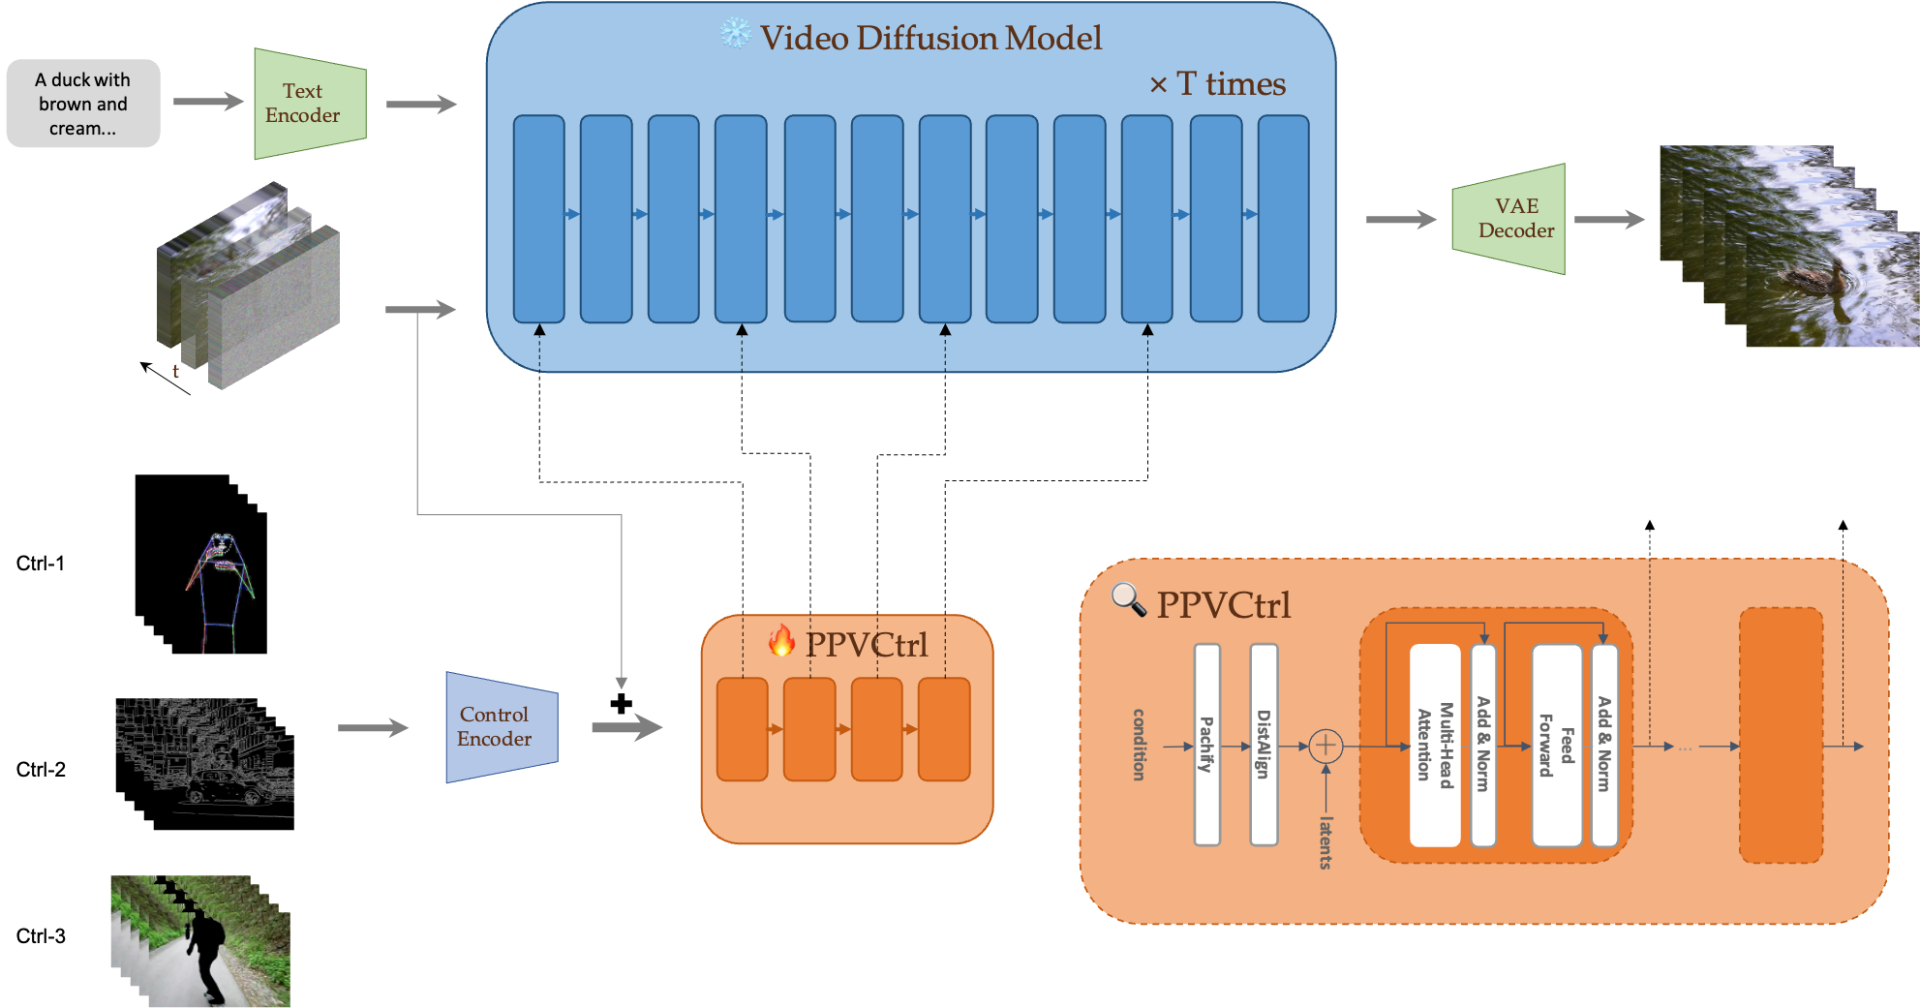
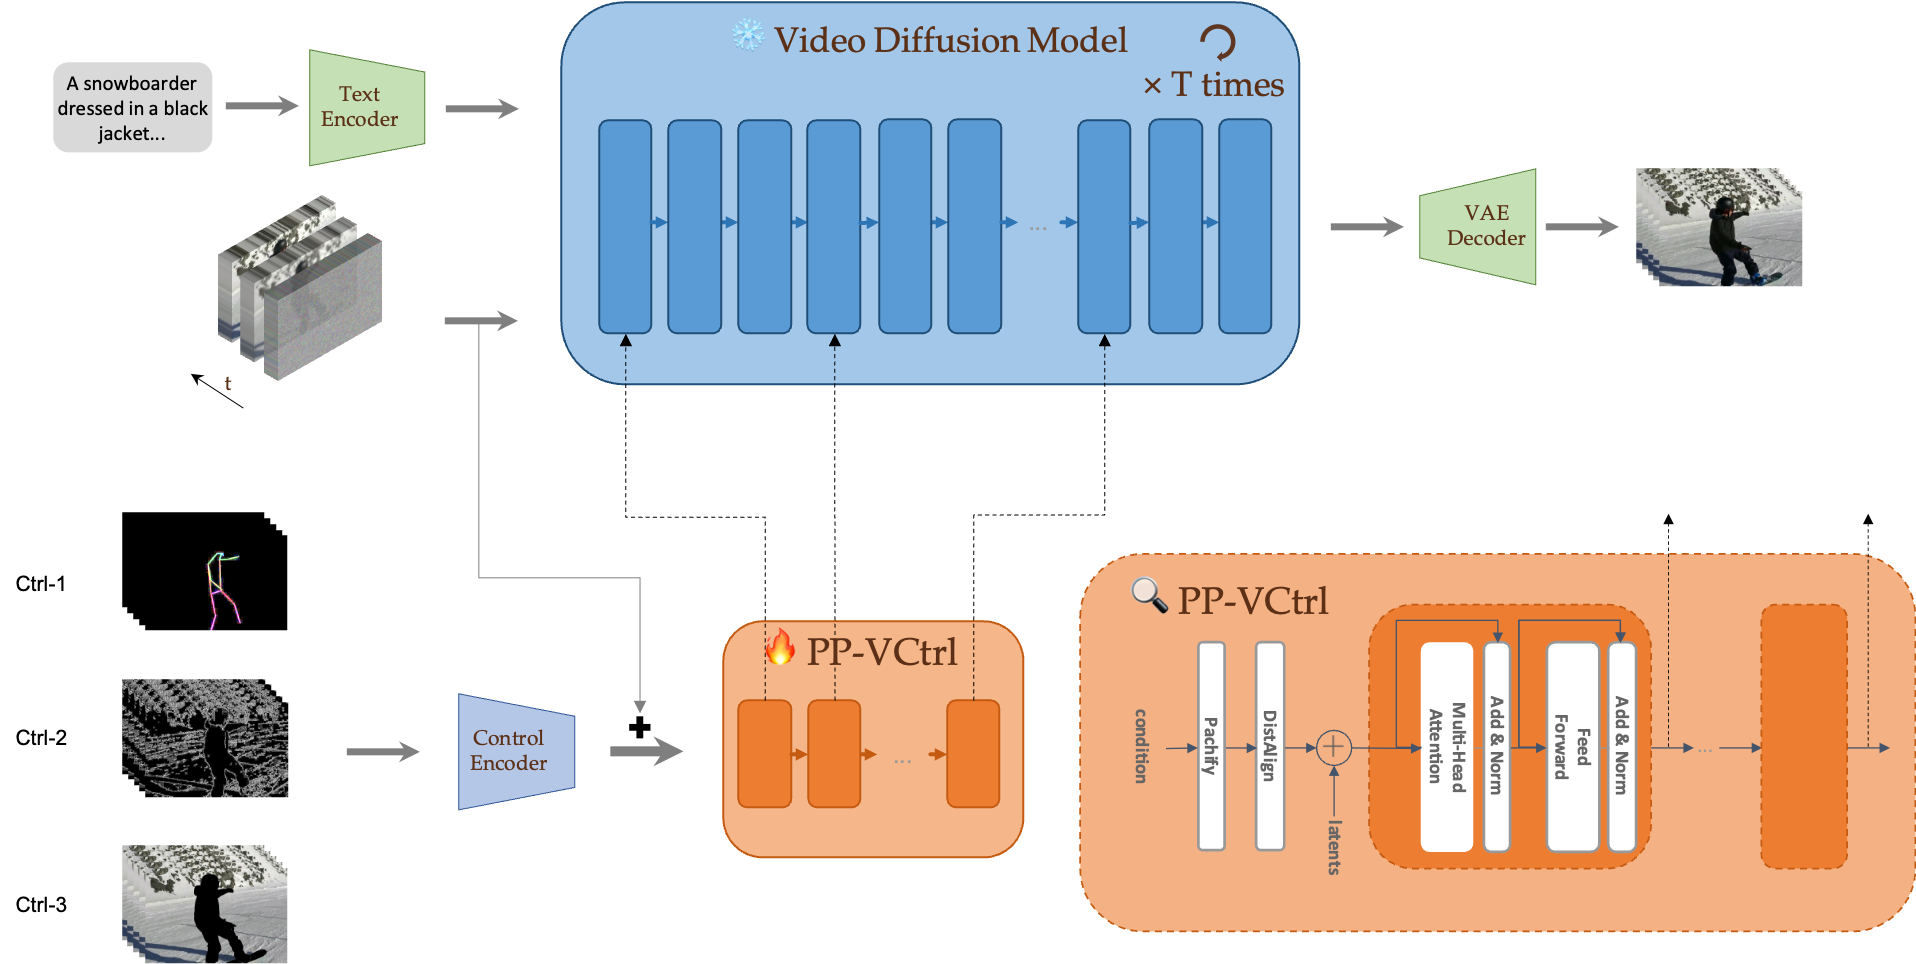
update_readme

diff --git a/ppdiffusers/examples/vctrl/README.md b/ppdiffusers/examples/vctrl/README.md
@@ -1,17 +1,22 @@
-# PP-Vctrl: Controlable Video Generation Models
-这个仓库是基于PP-Vctrl的官方实现。
+# PP-VCtrl: Controlable Video Generation Models
+这个仓库是基于PP-VCtrl的官方实现。
 
-PP-Vctrl 是一个基于**PaddlePaddle**的开源视频生成模型，旨在通过控制视频内容来实现高质量的视频编辑和生成。
+PP-VCtrl 是一个基于**PaddlePaddle**的开源视频生成模型，旨在通过控制视频内容来实现高质量的视频编辑和生成。
 
-PP-VCtrl 在 Canny2Video、Pose2Video 和 Mask2Video 三个任务的模型的控制精度和视频质量评估中，表现出色，媲美甚至超越现有的针对特定任务设计的方法。
+<img src="assets/models/model.png" style="width:100%">
 
-**[PP-Vctrl: Controlable Video Generation Models](https://arxiv.org/absadada/)** 
-</br>
+
+- **1**. **PP-VCtrl** 通过稀疏残差连接实现特征的高效控制传播，在保证计算效率的同时实现精确控制。
+- **2**. **PP-VCtrl** 通过统一的控制信号编码流程将多种条件输入转换为标准化表征，并利用任务特定掩码提升适应性。
+- **3**. **PP-VCtrl** 统一而灵活的设计使PPVCtrl成为了一个真正通用的视频生成控制解决方案，并可通过pipeline的方式应用在各类视频生成场景，如人物动画、场景转换、视频编辑等。
+
+<!-- **[PP-Vctrl: Controlable Video Generation Models](https://arxiv.org/absadada/)** 
+</br> -->
 <!-- [![arXiv](https://img.shields.io/badge/arXiv-2307-b31b1b.svg)](https://arxiv.org/abs/) -->
-[![Project Page](https://img.shields.io/badge/Project-Website-green)](https://https://github.com/PaddlePaddle/PaddleMIX.github.io/)
+<!-- [![Project Page](https://img.shields.io/badge/Project-Website-green)](https://https://github.com/PaddlePaddle/PaddleMIX.github.io/) -->
 <!-- [![Hugging Face Spaces](https://img.shields.io/badge/%F0%9F%A4%97%20Hugging%20Face-Spaces-yellow)](https://huggingface.co/spaces/) -->
 
-***注意:*** 
+<!-- ***注意:***  -->
 ## 📰 新闻
  `[2025-01-08]`:🔥模型推理代码，推理脚本，模型权重，已经发布。训练代码敬请期待！
 ## 🚩 **TODO/最新进展**
@@ -20,7 +25,7 @@ PP-VCtrl 在 Canny2Video、Pose2Video 和 Mask2Video 三个任务的模型的控
 
 
 ## 📷 快速展示
-### 1. 通过Canny边缘控制的PP-Vctrl视频生成：
+### 1. 通过Canny边缘控制的PP-VCtrl视频生成：
 <table class="center">
     <thead>
         <tr>
@@ -51,7 +56,7 @@ PP-VCtrl 在 Canny2Video、Pose2Video 和 Mask2Video 三个任务的模型的控
 </table>
 
 
-### 2. 通过蒙版控制的PP-Vctrl视频生成：
+### 2. 通过蒙版控制的PP-VCtrl视频生成：
 <table class="center">
     <thead>
         <tr>
@@ -81,31 +86,25 @@ PP-VCtrl 在 Canny2Video、Pose2Video 和 Mask2Video 三个任务的模型的控
     </tbody>
 </table>
 
-### 3. 通过DW-Pose控制的PP-Vctrl视频生成：
+### 3. 通过DW-Pose控制的PP-VCtrl视频生成：
 <table class="center">
     <thead>
         <tr>
-            <th>Reference1</th> <!-- 新增的列标题，在最左边 -->
-            <th>Reference2</th>
+            <th>Reference</th> <!-- 新增的列标题，在最左边 -->
             <th>Pose Videos</th>
-            <th>Ours 1</th>
-            <th>Ours 2</th>
+            <th>Ours</th>
         </tr>
     </thead>
     <tbody>
         <tr>
             <td><img src="assets/figures/pose_case1_reference1.jpg" alt="Reference 1" width="160"></td> 
-            <td><img src="assets/figures/pose_case1_reference1.jpg" alt="Reference 2" width="160"></td>
-            <td><img src="assets/figures/pose_case1_control_image.gif" alt="Pose Videos" width="160"></td>
+           <td><img src="assets/figures/pose_case1_control_image.gif" alt="Pose Videos" width="160"></td>
             <td><img src="assets/figures/pose_case1_ours_1.gif" alt="Ours 1" width="160"></td>
-            <td><img src="assets/figures/pose_case1_ours_1.gif" alt="Ours 2" width="160"></td>
         </tr>
         <tr>
-            <td><img src="assets/figures/pose_case1_reference1.jpg" alt="Reference 1" width="160"></td> 
-            <td><img src="assets/figures/pose_case1_reference1.jpg" alt="Reference 2" width="160"></td>
-            <td><img src="assets/figures/pose_case1_control_image.gif" alt="Pose Videos" width="160"></td>
-            <td><img src="assets/figures/pose_case1_ours_1.gif" alt="Ours 1" width="160"></td>
-            <td><img src="assets/figures/pose_case1_ours_1.gif" alt="Ours 2" width="160"></td>
+            <td><img src="assets/figures/pose_case2_reference2.jpg" alt="Reference 1" width="160"></td> 
+            <td><img src="assets/figures/pose_case2_control_image.gif" alt="Pose Videos" width="160"></td>
+            <td><img src="assets/figures/pose_case2_ours_2.gif" alt="Ours 1" width="160"></td>
         </tr>
         <!-- 可以继续添加更多行 -->
     </tbody>
@@ -122,9 +121,9 @@ PP-Vctrl模型是建立在 PaddlePaddle 和 ppdiffusers 上的。以下是使用
 ```bash
 
 # 创建python环境
-conda create -n PP-Vctrl python=3.10 -y
+conda create -n PP-VCtrl python=3.10 -y
 source $(conda info --base)/etc/profile.d/conda.sh
-conda activate PP-Vctrl
+conda activate PP-VCtrl
 ```
 ```bash
 # 安装3.0.0版本的paddlepaddle-gpu，当前我们选择了cuda11.8的版本，可以查看 https://www.paddlepaddle.org.cn/ 寻找自己适合的版本
@@ -148,7 +147,7 @@ pip install -r requirements.txt
 ### 2. 下载预训练权重
 请按照如下方式下载权重：
 
-#### 2.1 下载PP-Vctrl-canny模型权重
+#### 2.1 下载PP-VCtrl-canny模型权重
 ```bash
 #创建vctrl-canny模型权重目录
 mkdir -p weights/canny
@@ -160,7 +159,7 @@ wget -P weights/canny https://bj.bcebos.com/v1/dataset/PaddleMIX/vctrl/paddle_we
 wget -P weights/canny https://bj.bcebos.com/v1/dataset/PaddleMIX/vctrl/paddle_weights/vctrl_canny_5b_t2v.pdparams
 
 ```
-#### 2.2 下载PP-Vctrl-msak模型权重
+#### 2.2 下载PP-VCtrl-msak模型权重
 ```bash
 #创建vctrl-mask模型权重目录
 mkdir -p weights/mask
@@ -173,7 +172,7 @@ wget -P weights/mask https://bj.bcebos.com/v1/dataset/PaddleMIX/vctrl/paddle_wei
 
 
 ```
-#### 2.3 下载PP-Vctrl-pose模型权重
+#### 2.3 下载PP-VCtrl-pose模型权重
 ```bash
 #创建vctrl-poses模型权重目录
 mkdir -p weights/poses
@@ -213,7 +212,7 @@ sh scripts/infer_cogvideox_i2v_vctrl.sh
 sh scripts/infer_cogvideox_t2v_vctrl.sh
 ```
 
-#### 3.2 通过遮罩控制生成视频
+#### 3.2 通过蒙版控制生成视频
 ```bash
 ##t2v
 sh infer_cogvideox_t2v_mask_vctrl.sh
@@ -221,7 +220,7 @@ sh infer_cogvideox_t2v_mask_vctrl.sh
 ##i2v
 sh infer_cogvideox_i2v_mask_vctrl.sh
 ```
-***Note:*** 3.1 and 3.2 contain text-to-video and image-to-video.
+***注意:*** 边缘和蒙版控制模型可以同时支持t2v和i2v模型。 
 #### 3.3 通过人物姿态图控制生成视频
 ```bash
 ##i2v
@@ -230,9 +229,9 @@ sh scripts/infer_cogvideox_i2v_pose_vctrl.sh
 ***注意:*** 人物姿态控制模型只适用于i2v模型。 
 #### 3.3 Gradio 应用
 我们还创建了一个 Gradio 应用，供您与我们的模型进行交互。
+<!-- ```
 ```
-```
-<img src="asserts/figs/gradio.jpg" style="width:70%">
+<img src="asserts/figs/gradio.jpg" style="width:70%"> -->
 
 
 ## 📚 技术细节
@@ -245,17 +244,20 @@ sh scripts/infer_cogvideox_i2v_pose_vctrl.sh
 
 尽管ControlNet在可控图像生成领域取得了突破性进展，但视频生成领域仍缺乏类似的通用控制方案。当前可控视频生成的研究主要集中在开发特定任务的解决方案，如人物动画生成、视频修复和运动控制等。这些方法通常为每个具体任务设计专门的模块，导致技术体系碎片化，缺乏统一的理论框架。同时，它们在处理文本提示和参考帧等基础输入时往往受限于任务特定的设计，难以实现灵活的跨任务迁移。此外，现有的一些方法试图通过控制图像生成模型来生成视频，而不是直接控制视频生成模型，这在时序一致性和整体生成质量上都存在局限。
 
-针对上述挑战，我们提出了PP-VCtrl - 一个统一的视频生成控制框架，它通过引入辅助条件编码器，实现了对各类控制信号的灵活接入和精确控制，同时保持了高效的计算性能。它可以高效地应用在各类视频生成场景，尤其是在人物动画、场景转换、视频编辑等需要精确控制的任务中
+针对上述挑战，我们提出了PP-VCtrl - 一个统一的视频生成控制框架，它通过引入辅助条件编码器，实现了对各类控制信号的灵活接入和精确控制，同时保持了高效的计算性能。它可以高效地应用在各类视频生成场景，尤其是在人物动画、场景转换、视频编辑等需要精确控制的任务中。
 
-<img src="assets/models/model.png" style="width:100%">
+### 4.2 数据策略
+相比于文本/图像-视频生成，可控视频生成的数据除了满足画面质量、文本-视频对齐外，还需要根据不同的可控任务构造不同的数据集。我们通过收集公开视频数据集构建原始数据池，对原始数据进行切分单镜头、去除黑边、水印和字幕后，进行美学质量评分过滤得到可用数据池。基于可用数据池做recaption、人体关节点提取和视频分割，依次满足canny、pose和mask视频编辑任务的数据需求。具体如下图所示：
+<img src="assets/models/data1.png" style="width:100%">
 
-- **1**. **PP-Vctrl** 通过稀疏残差连接实现特征的高效控制传播，在保证计算效率的同时实现精确控制。
-- **2**. **PP-Vctrl** 通过统一的控制信号编码流程将多种条件输入转换为标准化表征，并利用任务特定掩码提升适应性。
-- **3**. **PP-Vctrl** 统一而灵活的设计使PPVCtrl成为了一个真正通用的视频生成控制解决方案，并可通过pipeline的方式应用在各类视频生成场景，如人物动画、场景转换、视频编辑等。
+通过上述的流程，我们得到了可控视频生成数据集在不同任务的训练数据分布：
+<img src="assets/models/data2.png" style="width:100%">
 
+### 4.3 训练策略
+为了提升模型的泛化能力和鲁棒性，我们采用了多样化的数据增强和训练策略。在去噪过程中，通过正弦函数采样时间步，以更好地关注视频生成的关键阶段。在空间维度上，默认情况下采用基于正态分布的裁剪策略，根据视频宽高比自适应地进行裁剪，在增强数据多样性的同时也能使模型很好地关注视频主体内容。
 
-
-### 4.2 定量指标评测
+针对不同任务特点，我们设计了相应的优化策略。在边缘控制任务中，采用动态阈值采样增加数据多样性；对于人体姿态控制任务，针对横竖版视频分别采用填充和裁剪的预处理策略；在蒙版控制任务中，我们采用基于区域面积权重的多目标采样方法，根据概率分布动态选择目标区域，并支持区域扩展和多目标联合控制，同时通过随机概率的膨胀处理来增强模型鲁棒性，使生成结果更加自然。这些策略在统一的视频生成控制框架基础上进行综合运用，显著提升了模型在各类场景下的适应能力和生成质量，并充分发挥了PP-VCtrl通用控制框架的优势。
+### 4.4 定量指标评测
 在边缘控制视频生成（Canny）、人体姿态控制视频生成（Pose）以及蒙版控制视频生成（Mask）三个任务的定量评估中，PPVCtrl模型在控制能力和视频质量指标上均能够媲美或超越现有开源的特定任务方法。
 
 <img src="assets/models/eval_2.png" style="width:100%">
